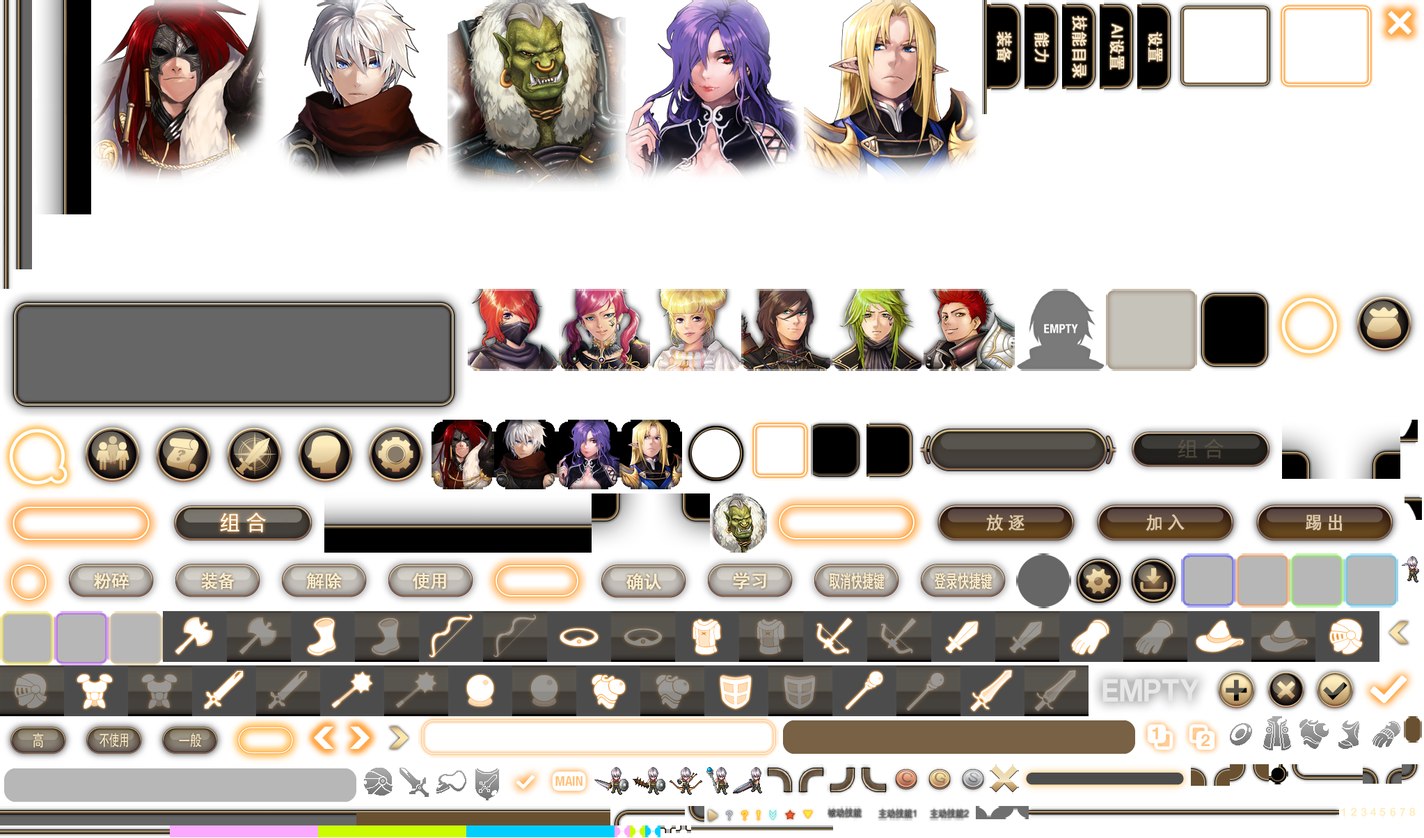
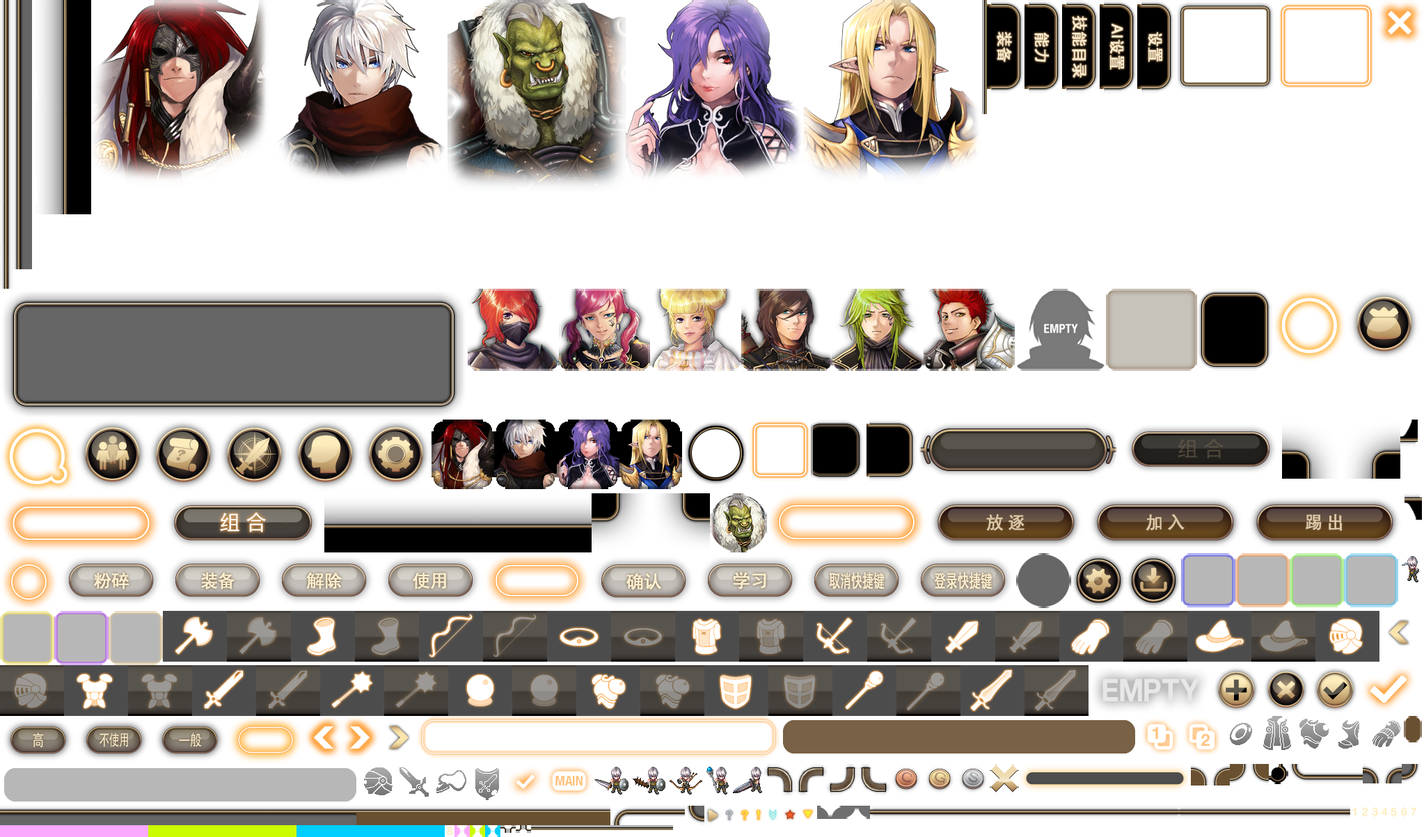
fix(ui): 技能列标题改 DOM 并统一弹层遮罩与透明度
- 技能页/AI 页/队伍技能页的主动、被动列标题不再读取 72×17 烘焙图，改 DOM 文字
- 说明层和物品详情打开时显示全屏黑色遮罩，页面文字只保留详情；GM 物品详情同样处理
- 说明面板、数量/使用弹层和原生提示横带改成半透明，不再铺纯黑
- 标题菜单确认框补黑色遮罩
- 重新生成菜单 UI 图集并更新相应断言

验证：npm run typecheck；相关用例 154 项通过；npm run build。

diff --git a/src/ui/story-ui.ts b/src/ui/story-ui.ts
@@ -107,6 +107,13 @@ export class StoryUI {
   private noticeTextSpecs:MenuTextSpec[]=[];
   /** 物品使用/丢弃弹层的文字规格；仍是弹层本地坐标，输出时统一换算。 */
   private operationTextSpecs:MenuTextSpec[]=[];
+  /** 背包说明层与 GM 物品详情打开时，页面文字让位，只留下说明自身。 */
+  private bagDetailTextSpecs:MenuTextSpec[]=[];
+  private bagDetailOpen=false;
+  private gmDetailTextSpecs:MenuTextSpec[]=[];
+  private gmDetailOpen=false;
+  /** 弹层/说明下方的黑色遮罩；画在菜单之上、说明层之下。 */
+  private popupMask?:Phaser.GameObjects.Rectangle;
   /** 技能初始化确认框的文字规格；仍是弹层本地坐标，输出时统一换算。 */
   private skillResetTextSpecs:MenuTextSpec[]=[];
   /** 登记快捷键那一屏单独一层：它盖在遮罩上，菜单本体整块藏起来。 */
@@ -220,6 +227,8 @@ export class StoryUI {
         this.renderNoticeText(writer);
       });
       this.menuText.register('bag',writer=>{
+        // 说明层打开时上方有黑色遮罩，只输出说明文字，页面文字整层让位。
+        if(this.bagDetailOpen){for(const spec of this.bagDetailTextSpecs)writer.add(spec);return;}
         this.renderTabsText(writer);
         for(const spec of this.bagTextSpecs)writer.add(spec);
         this.renderNoticeText(writer);
@@ -253,6 +262,8 @@ export class StoryUI {
       });
       // GM 调试页的文字由面板自己收集；图框、按钮和滚动仍由 Phaser 画。
       this.menuText.register('debug',writer=>{
+        // 物品详情打开时上方有黑色遮罩，只输出详情文字。
+        if(this.gmDetailOpen){for(const spec of this.gmDetailTextSpecs)writer.add(spec);return;}
         this.renderTabsText(writer);for(const spec of this.gmTextSpecs)writer.add(spec);this.renderNoticeText(writer);
       });
       // 通用原生提示盖在任何页面之上：页面文字让位，只输出这一份。
@@ -265,6 +276,8 @@ export class StoryUI {
     this.shortcutScreen.enabled=()=>this.open&&!this.app.ui.suspended&&!this.busy&&!!this.shortcutEdit;
     this.backTab.enabled=()=>this.shortcutScreen!.enabled();
     this.hudButtons=new UiSurface(scene,960,640,50);this.backdrop=scene.add.rectangle(0,0,1,1,0x000000,.65).setOrigin(0).setDepth(99).setInteractive();
+    // 说明/弹层用：压暗菜单页但不盖住说明层（300）和弹层（400）。
+    this.popupMask=scene.add.rectangle(0,0,1,1,0x000000,.5).setOrigin(0).setDepth(250).setVisible(false);
     this.surface.enabled=()=>this.open&&!this.app.ui.suspended&&!this.busy&&!this.app.ui.controlLayoutEditing&&!this.app.ui.keyBindingEditing&&!this.shortcutEdit&&!this.operation&&!this.itemNotice&&!this.allocationExit&&!this.skillReset&&!this.savePage.blocksPage&&!this.craftingPanel?.modalOpen&&!this.shopPanel?.modalOpen&&!this.partyPanel?.modalOpen&&!this.forge?.confirming;
     this.body.enabled=()=>this.surface!.enabled();this.description.enabled=()=>this.body!.enabled();
     this.modal.enabled=()=>this.open&&!this.app.ui.suspended&&!this.busy&&(!!this.operation||!!this.itemNotice||!!this.allocationExit||this.skillReset||this.savePage.modalOpen||!!this.craftingPanel?.modalOpen||!!this.shopPanel?.modalOpen||!!this.partyPanel?.modalOpen||!!this.forge?.confirming);
@@ -279,7 +292,7 @@ export class StoryUI {
     this.unsubscribeFullscreen=onFullscreenChange(()=>{if(this.open&&this.page==='settings')this.render();});
     scene.input.on('pointermove',this.moveDrag,this);scene.input.on('pointerup',this.endDrag,this);scene.input.on('pointerupoutside',this.cancelDrag,this);
     scene.game.events.on(UI_EVENTS.minimapLayout,this.onMinimap,this);scene.game.events.on(UI_EVENTS.cancelInput,this.cancelDrag,this);
-    scene.events.once('shutdown',()=>{this.unregisterKeyboard?.();this.unregisterKeyboard=undefined;this.unsubscribe?.();this.unsubscribeFullscreen?.();this.discardAllocation();this.menuText?.destroy();this.menuText=undefined;this.shortcutPrompt?.remove();this.shortcutPrompt=undefined;scene.scale.off('resize',this.resize,this);scene.game.events.off(UI_EVENTS.minimapLayout,this.onMinimap,this);scene.game.events.off(UI_EVENTS.cancelInput,this.cancelDrag,this);this.cancelOperation();this.savePage.destroy();this.surface!.root.remove(this.body!.root);this.surface?.destroy();this.body?.destroy();this.modal?.destroy();this.hudButtons?.destroy();this.description?.destroy();this.shortcutScreen?.destroy();this.backTab?.destroy();this.backdrop?.destroy();this.controlEditor?.destroy();this.controlEditor=undefined;this.keyBindingEditor?.destroy();this.keyBindingEditor=undefined;});
+    scene.events.once('shutdown',()=>{this.unregisterKeyboard?.();this.unregisterKeyboard=undefined;this.unsubscribe?.();this.unsubscribeFullscreen?.();this.discardAllocation();this.menuText?.destroy();this.menuText=undefined;this.shortcutPrompt?.remove();this.shortcutPrompt=undefined;scene.scale.off('resize',this.resize,this);scene.game.events.off(UI_EVENTS.minimapLayout,this.onMinimap,this);scene.game.events.off(UI_EVENTS.cancelInput,this.cancelDrag,this);this.cancelOperation();this.savePage.destroy();this.surface!.root.remove(this.body!.root);this.surface?.destroy();this.body?.destroy();this.modal?.destroy();this.hudButtons?.destroy();this.description?.destroy();this.shortcutScreen?.destroy();this.backTab?.destroy();this.backdrop?.destroy();this.popupMask?.destroy();this.popupMask=undefined;this.controlEditor?.destroy();this.controlEditor=undefined;this.keyBindingEditor?.destroy();this.keyBindingEditor=undefined;});
     this.sync();
   }
   bind(session:Session,world:WorldIndex,content:StoryInterface):void{
@@ -325,6 +338,7 @@ export class StoryUI {
     this.shortcutScreen?.visible(this.open&&!this.app.ui.suspended&&!!this.shortcutEdit);this.backTab?.visible(this.open&&!this.app.ui.suspended&&!!this.shortcutEdit);
     this.shortcutPrompt?.setVisible(this.open&&!this.app.ui.suspended&&!!this.shortcutEdit);
     this.backdrop?.setVisible(this.open&&!this.app.ui.suspended);
+    this.popupMask?.setVisible(menu&&(modal||this.bagDetailOpen||this.gmDetailOpen));
     this.controlEditor?.visible(this.open&&this.app.ui.controlLayoutEditing&&!this.app.ui.suspended);
     this.keyBindingEditor?.visible(this.open&&this.app.ui.keyBindingEditing&&!this.app.ui.suspended);this.layout();
   }
@@ -474,6 +488,7 @@ export class StoryUI {
     }
     this.body?.scrolls.forEach(scroll=>scroll.layout());this.description?.scrolls.forEach(scroll=>scroll.layout());this.modal?.scrolls.forEach(scroll=>scroll.layout());if(this.hudButtons&&this.scene){const bounds=this.scene.game.canvas.getBoundingClientRect(),safe=readSafeArea(),unit=this.scene.scale.width/Math.max(1,bounds.width),scale=uiUnitScale(this.scene.scale.width,this.scene.scale.height);this.hudButtons.root.setScale(scale).setPosition((safe.left+12)*unit,(safe.top+12)*unit);this.hudButtons.root.list.forEach((button,index)=>(button as Phaser.GameObjects.Container).setPosition(0,this.minimapHeight+12+index*(HUD_SIDE_BUTTON_SIZE+8)));}
     this.backdrop?.setSize(this.scene!.scale.width,this.scene!.scale.height);
+    this.popupMask?.setSize(this.scene!.scale.width,this.scene!.scale.height);
     // 画布缩放变化后，DOM 文字的 CSS 坐标和字号要跟着重算。
     this.menuText?.refresh();
     if(this.shortcutEdit)this.placeShortcutPrompt();
@@ -690,7 +705,7 @@ export class StoryUI {
         });
         this.gmPanelOwner=gm;
       }
-      this.gmTextSpecs=[];
+      this.gmTextSpecs=[];this.gmDetailTextSpecs=[];this.gmDetailOpen=false;
       this.gmPanel?.render(this.body!,{add:spec=>this.gmTextSpecs.push(spec)});
     }
     if(this.page==='save'||this.page==='load')this.renderSavePage();
@@ -1121,7 +1136,12 @@ export class StoryUI {
     // 可视区收进左框内沿：原版滚动区是 (21,18,374,394)，内容组再左内缩 10。这里把滚动原点
     // 移到 (116,24)（相对原可视区右移 10、下移 6），再用 16 的裁剪外扩；下沿正好停在底框上沿，
     // 内容不会盖住列标题和底框。
-    const tree=this.scroll('directory',116,24,364,367,this.body!,16);panels.skillColumns.forEach((column,index)=>v.image(column.image,1+index*91,0,72,17,tree.content));
+    const tree=this.scroll('directory',116,24,364,367,this.body!,16);
+    // 列标题原来是 72×17 的烘焙文字图，改成 DOM 后不再发虚。
+    panels.skillColumns.forEach((column,index)=>this.skillTextSpecs.push({
+      key:`skill-column-${index}`,text:column.label,x:116+1+index*91+36,y:24+8.5,
+      style:{size:14,color:'#9a9a9a',anchorX:.5,anchorY:.5},scroll:'directory',clip:{top:24,bottom:391}
+    }));
     character.skills.forEach((id,index)=>{
       const entry=this.app.battleCatalog.skills[id],position=panels.skillPositions[index]!,level=draft.levels[id]??0;
       const button=v.button('',position.column*91,20+position.row*89,75,75,()=>{this.skill=id;this.scrollOffsets.delete('skills:description');this.render();},{image:entry.icon,parent:tree.content,guard:tree.guard}).setData('label',entry.name);
@@ -1147,7 +1167,10 @@ export class StoryUI {
     const v=this.body!,panels=this.app.menuPanels,party=this.session!.party!;
     const list=this.scroll('ai',116,24,364,367,this.body!,16);
     // AI 页只有两列主动技能；第三张是目录页的「被动技能」标题，原版这里只画前两个。
-    panels.skillColumns.slice(0,2).forEach((column,index)=>v.image(column.image,1+index*182,0,72,17,list.content));
+    panels.skillColumns.slice(0,2).forEach((column,index)=>this.skillTextSpecs.push({
+      key:`skill-ai-column-${index}`,text:column.label,x:116+1+index*182+36,y:24+8.5,
+      style:{size:14,color:'#9a9a9a',anchorX:.5,anchorY:.5},scroll:'ai',clip:{top:24,bottom:391}
+    }));
     // 两列之间与右列外侧的压暗分隔条。颜色与原版压暗带相同（RGB 111,111,111），但**不是**
     // `phaser/round-band.ts` 那条：这里是没有圆角件的 37 宽直条，不透明度也直接按 0–255 给
     // （30/255），而 `drawRoundBand` 的强度是 0–100 且带四角图。别把它们当成同一元件合并。
@@ -1350,7 +1373,7 @@ export class StoryUI {
     if(this.shortcutEdit)this.closeShortcutScreen();
   }
   private renderBag():void{
-    this.bagTextSpecs=[];
+    this.bagTextSpecs=[];this.bagDetailTextSpecs=[];this.bagDetailOpen=false;
     const v=this.body!,bag=this.session!.bag,panels=this.app.menuPanels,member=this.member()!,equipment=bag.equipmentFor(this.selectedMemberId),art=this.memberArt();
     // 两栏背景照原版：`UIEquip_DrawEquipBackground @0x14a7cc` 给左栏画图框加四块黑色 60% 的区域
     // （`GRPX_FillRectAlpha(..., 0xff000000, 0x3c)`），中间 (129,110,157,157) 那块留空放人物预览；
@@ -1367,6 +1390,7 @@ export class StoryUI {
     this.drawPartyColumn(v);
     const showingResult=itemResultDetails(this.itemResult,bag.catalog,id=>id,id=>id).length>0,
       describing=!showingResult&&!!this.selectedItem&&!!bag.get(this.selectedItem);
+    this.bagDetailOpen=describing||showingResult;
     // 说明面板盖住点选来源的对面那一栏：停在左栏（点背包物品）时右栏照常画背包网格，
     // 停在右栏（点身上装备）时左栏的人物与装备槽也必须照常画——否则那一块会整片空掉。
     // 只有面板盖住左栏时才省掉这一支——省掉的是被盖住的那一块，**不是把选中状态清掉**：
@@ -1477,7 +1501,7 @@ export class StoryUI {
     // 说明正文走 DOM：断行和高度仍在布局阶段算完，滚动时由文字层扣掉滚动偏移。
     const scrollX=left+panel.scroll.x,scrollY=top+panel.scroll.y,
       clip={top:scrollY,bottom:scrollY+actionLayout.scrollHeight},
-      writer={add:(spec:MenuTextSpec)=>this.bagTextSpecs.push(spec)};
+      writer={add:(spec:MenuTextSpec)=>this.bagDetailTextSpecs.push(spec)};
     drawDescriptionTitle(body.title,left,top,panel.width,body.color,{writer,keyPrefix:'item-title'});
     let y=drawDescriptionRows(v,body.rows,panel.scroll.width,
       {writer,keyPrefix:'item-row',x:scrollX,y:scrollY,scroll:'item',clip});
@@ -1490,7 +1514,7 @@ export class StoryUI {
         const button=actionLayout.buttons[index]!;
         v.button('',left+button.x,top+button.y,button.width,button.height,action.run,
           {fontSize:button.fontSize,disabled:action.disabled}).setData('label',action.label);
-        this.bagTextSpecs.push({key:`item-action-${index}`,text:action.label,
+        this.bagDetailTextSpecs.push({key:`item-action-${index}`,text:action.label,
           x:left+button.x+button.width/2,y:top+button.y+button.height/2,
           style:{size:button.fontSize,anchorX:.5,anchorY:.5,width:button.width-12,align:'center',wrap:'word'}});
       });
@@ -1503,6 +1527,7 @@ export class StoryUI {
   private renderGmItemDetail(itemId:string,close:()=>void):void{
     const v=this.description!,catalog=this.session!.bag.catalog,item=catalog.items[itemId];
     if(!item)return;
+    this.gmDetailOpen=true;
     // 未持有的物品没有掷出的实例数值；用目录默认值与最大孔数预览，避免详情里全是 0。
     const defaults=this.app.characterStats.equipment[itemId];
     const entry:ItemInstance={id:'gm-preview',item:itemId,quantity:1,enhancement:0,gems:[],
@@ -1524,7 +1549,7 @@ export class StoryUI {
     // 说明层坐标与内容块一致；调试页的文字层按内容块坐标输出。
     const scrollX=left+panel.scroll.x,scrollY=top+panel.scroll.y,
       clip={top:scrollY,bottom:scrollY+panel.scroll.height},
-      writer={add:(spec:MenuTextSpec)=>this.gmTextSpecs.push(spec)};
+      writer={add:(spec:MenuTextSpec)=>this.gmDetailTextSpecs.push(spec)};
     drawDescriptionTitle(body.title,left,top,panel.width,body.color,{writer,keyPrefix:'gm-item-title'});
     const height=drawDescriptionRows(v,body.rows,panel.scroll.width,
       {writer,keyPrefix:'gm-item-row',x:scrollX,y:scrollY,scroll:'item',clip});
@@ -1721,7 +1746,7 @@ export class StoryUI {
       id=>this.app.battleCatalog.skills[id]?.name??id,id=>this.app.storyClasses.classes.find(c=>c.id===id)?.name??id)
       .forEach((line,index)=>{
         const layout=this.descriptionLayout(v,[{text:line,color:GOLD}],panel.scroll.width,22);
-        this.pushDescriptionText(this.bagTextSpecs,`item-result-${index}`,layout,scrollX,scrollY,panel.scroll.width,22,
+        this.pushDescriptionText(this.bagDetailTextSpecs,`item-result-${index}`,layout,scrollX,scrollY,panel.scroll.width,22,
           'item',clip,y);
         y+=layout.height+5+13;
       });

diff --git a/src/scenes/menu-scene.ts b/src/scenes/menu-scene.ts
@@ -59,6 +59,8 @@ export class MenuScene extends Phaser.Scene {
   /** 确认框画在它上面；底下的页面在确认期间不接受输入。 */
   private modal?:UiSurface;
   private backdrop?:Phaser.GameObjects.Image;
+  /** 确认框后面的黑色遮罩：弹层本身保持半透明。 */
+  private popupMask?:Phaser.GameObjects.Rectangle;
   private page:'home'|'slots'|'settings'|'cloud'='home';
   /** 存档槽立绘的租约：每次进存档页按槽里的路径取，离开页面或关场景时释放。 */
   private slotPortraits?:AssetLease;
@@ -98,7 +100,7 @@ export class MenuScene extends Phaser.Scene {
   create(options:{page?:'home'|'slots'}={}):void {
     this.page='home';this.app.ui.setMode('menu');this.app.ui.loading('正在准备主菜单…');
     const controller=new AbortController();
-    this.events.once('shutdown',()=>{this.unregisterInput?.();this.unregisterInput=undefined;controller.abort();this.cancelCloudRequest();this.settleConfirm(false,false);this.slotRequest?.abort();this.prompt?.close();this.passwordPrompt?.close();this.credentials?.destroy();this.credentials=undefined;this.clearModalLabels();this.menuText?.destroy();this.menuText=undefined;this.domSpecs=[];this.slotsScroll=undefined;this.settingsList=undefined;this.cloudScroll=undefined;this.surface?.destroy();this.surface=undefined;this.modal?.destroy();this.modal=undefined;this.slotPortraits?.release();this.slotPortraits=undefined;this.events.off(Phaser.Scenes.Events.RESUME,this.renderCloudOnResume);this.events.off(Phaser.Scenes.Events.PAUSE,this.hideCredentials);this.scale.off('resize',this.layout,this);});
+    this.events.once('shutdown',()=>{this.unregisterInput?.();this.unregisterInput=undefined;controller.abort();this.cancelCloudRequest();this.settleConfirm(false,false);this.slotRequest?.abort();this.prompt?.close();this.passwordPrompt?.close();this.credentials?.destroy();this.credentials=undefined;this.clearModalLabels();this.menuText?.destroy();this.menuText=undefined;this.domSpecs=[];this.slotsScroll=undefined;this.settingsList=undefined;this.cloudScroll=undefined;this.surface?.destroy();this.surface=undefined;this.modal?.destroy();this.modal=undefined;this.popupMask?.destroy();this.popupMask=undefined;this.slotPortraits?.release();this.slotPortraits=undefined;this.events.off(Phaser.Scenes.Events.RESUME,this.renderCloudOnResume);this.events.off(Phaser.Scenes.Events.PAUSE,this.hideCredentials);this.scale.off('resize',this.layout,this);});
     // 标题页整屏独占键盘；原始事件由正式界面场景那一处桥接进 router。
     this.unregisterInput?.();this.unregisterInput=this.app.inputRouter.register('menu',this.routeKey,{exclusive:()=>true});
     this.events.on(Phaser.Scenes.Events.RESUME,this.renderCloudOnResume);
@@ -112,6 +114,7 @@ export class MenuScene extends Phaser.Scene {
       if(controller.signal.aborted){lease.release();return;}
       this.events.once('shutdown',()=>lease.release());
       this.backdrop=this.add.image(0,0,uiTexture(art('background'))).setOrigin(.5);
+      this.popupMask=this.add.rectangle(0,0,1,1,0x000000,.5).setOrigin(0).setDepth(150).setVisible(false);
       this.surface=new UiSurface(this,1200,640);this.modal=new UiSurface(this,1024,640,200);this.prompt=new TextPrompt();this.passwordPrompt=new PasswordChangePrompt();
       const domUi=this.domUi;
       if(domUi){
@@ -352,6 +355,7 @@ export class MenuScene extends Phaser.Scene {
     // 加载页会盖住画布，但 DOM 在画布之上；加载或挂起时页面文字必须让位。
     const textVisible=this.confirmAction===undefined&&this.app.ui.ready&&!this.app.ui.suspended;
     this.menuText?.setVisible(textVisible);
+    this.popupMask?.setVisible(!textVisible&&this.confirmAction!==undefined&&this.app.ui.ready&&!this.app.ui.suspended);
     if(!textVisible)for(const label of this.modalLabels)label.setVisible(false);
     this.clearModalLabels();
     if(this.confirmAction){
@@ -790,6 +794,7 @@ export class MenuScene extends Phaser.Scene {
   }
   private layout():void {
     if(this.backdrop){const source=this.backdrop.texture.getSourceImage(),factor=Math.max(this.scale.width/source.width,this.scale.height/source.height);this.backdrop.setPosition(this.scale.width/2,this.scale.height/2).setScale(factor);}
+    this.popupMask?.setSize(this.scale.width,this.scale.height);
     this.surface?.layout();
     if(this.surface&&this.modal&&this.confirmAction!==undefined)centerModal(this.modal,this.surface,1024,640);
     this.syncCredentials();

diff --git a/src/ui/phaser/popup-panel.ts b/src/ui/phaser/popup-panel.ts
@@ -6,7 +6,8 @@ import { POPUP_FRAME } from '../shop-layout.ts';
  *
  * 原版这两个框的画法一模一样（`UIInputItemCount_Draw @0x14f4c8` 与
  * `UIPopupMsg_DrawDisplayTypeRectBackground @0x15e994`）：先用图组 19 的边框家族画四角与四条边，
- * 再铺一块内缩 35 的不透明黑底。矩形与落点见 `shop-layout.ts` 的 `POPUP_FRAME`。
+ * 再铺一块内缩 35 的半透明黑底。压暗页面由外层的黑色遮罩负责，弹层本身不再铺死黑。
+ * 矩形与落点见 `shop-layout.ts` 的 `POPUP_FRAME`。
  *
  * 坐标相对框的左上角，所以翅角与四条边都会画到框外，调用方给框定位时要按 (0,0) 对齐。
  */
@@ -21,5 +22,5 @@ export function drawPopupPanel(v: UiSurface, assets: Record<string, string>, wid
   v.image(assets['popup-edge-horizontal'], horizontal.inset, height + horizontal.bottom - horizontal.height, span, horizontal.height).setFlipY(true);
   v.image(assets['popup-edge-vertical'], vertical.left, vertical.top, vertical.width, reach);
   v.image(assets['popup-edge-vertical'], width + vertical.right - vertical.width, vertical.top, vertical.width, reach).setFlipX(true);
-  v.rect(inner, inner, span, reach, 0x000000, 1);
+  v.rect(inner, inner, span, reach, 0x000000, .35);
 }

diff --git a/tests/shop-panel.test.ts b/tests/shop-panel.test.ts
@@ -173,11 +173,11 @@ test('shop layout keeps the native panel geometry',()=>{
   assert.equal(descriptionPanel(462).scroll.width,378,'变宽时滚动区右侧留边不变');
   assert.equal(descriptionPanel(462).menu.width,377+20,'变宽时菜单行右侧留边不变');
   assert.equal(DESCRIPTION_PANEL.height,431);
-  // 面板自带底色：内缩 10 取原版（UIDesc_Draw 的 GRPX_FillRectAlpha 参数 0x3c=60），
-  // 本作把不透明度提到 85%，让面板压得住底下那一栏。
+  // 面板自带半透明底色：内缩 10 取原版（UIDesc_Draw 的 GRPX_FillRectAlpha 参数 0x3c=60），
+  // 页面的压暗交给外层黑色遮罩，面板本身不再铺接近纯黑。
   assert.equal(DESCRIPTION_PANEL.inset,10);
   assert.equal(DESCRIPTION_PANEL.background,0x000000);
-  assert.equal(DESCRIPTION_PANEL.backgroundAlpha,.85);
+  assert.equal(DESCRIPTION_PANEL.backgroundAlpha,.35);
   // 物品名在面板顶上，不在滚动区里：落点 (20,22)、右边留 82 给关闭按钮。
   assert.deepEqual(DESCRIPTION_PANEL.title,{x:20,y:22,right:82,size:24});
   assert.deepEqual(DESCRIPTION_PANEL.scroll,{x:20,y:60,width:358,height:258});

diff --git a/src/ui/bag-layout.ts b/src/ui/bag-layout.ts
@@ -76,11 +76,11 @@ export const DESCRIPTION_PANEL = {
   y: 0, width: 442, height: 431,
   /** 442 是这套子件的设计宽度；实际面板按它盖住的那一栏取宽，见 `descriptionPanel`。 */
   /**
-   * 黑色底色的内缩量取原版（`GRPX_FillRectAlpha(x+10,y+10,w−20,h−20,0xff000000,60)`），
-   * 不透明度按观感从原版的 60% 提到 85%：面板要压得住底下那一栏的格子与图标，
-   * 同时又看得出它是盖上去的一层，不是把那一栏整个换掉。
+   * 黑色底色的内缩量取原版（`GRPX_FillRectAlpha(x+10,y+10,w−20,h−20,0xff000000,60)`）。
+   * 面板本身保持半透明，压暗交给它下面的全屏黑色遮罩；这样能看到底下的界面，
+   * 又不会把面板画成一块纯黑。
    */
-  inset: 10, background: 0x000000, backgroundAlpha: .85,
+  inset: 10, background: 0x000000, backgroundAlpha: .35,
   /** 物品名：落点与占宽来自 `UIDesc_Draw`，`right` 是右边留给关闭按钮的那段。 */
   title: { x: 20, y: 22, right: 82, size: 24 },
   scroll: { x: 20, y: 60, width: 358, height: 258 },

diff --git a/src/ui/phaser/party-panel.ts b/src/ui/phaser/party-panel.ts
@@ -220,7 +220,9 @@ export class PartyPanel {
     const companion=id==='player'?undefined:(member as CompanionMember).snapshot();
     this.skillsScroll=this.scrollArea(v,'party-skills',503,18,374,342);const scroll=this.skillsScroll;
     scroll.onScroll=()=>this.refreshText();
-    panels.skillColumns.forEach((column,index)=>v.image(column.image,index*91,0,72,17,scroll.content));
+    // 列标题改成 DOM 文字，不再从 72×17 的烘焙图读取。
+    panels.skillColumns.forEach((column,index)=>this.scrolledText(`skill-column-${index}`,column.label,
+      503+index*91+36,18+8.5,14,'#9a9a9a','party-skills',{top:18,bottom:360},{anchorX:.5,anchorY:.5}));
     character.skills.forEach((skillId,index)=>{
       const skill=this.app.battleCatalog.skills[skillId],position=panels.skillPositions[index],level=loadout.levels[skillId]??0,available=!companion||!!companion.skillCaps[skillId];
       const button=v.button('',position.column*91,20+position.row*89,75,75,()=>{this.modal={kind:'skill',id,skill:skillId};this.changed();},

diff --git a/tests/story-menu-interactions.test.ts b/tests/story-menu-interactions.test.ts
@@ -445,9 +445,9 @@ test('skill settings page drops the initial-point label and keeps the reset butt
 test('AI settings shows two columns and clears the description for unlearned skills',t=>{
   const f=fixture();t.after(f.cleanup);
   f.menu.show('skills');f.scene.click(f.scene.button('AI 设置'));
-  const headers=panels.skillColumns.map(column=>`interface:${column.image}`);
-  assert.deepEqual(headers.map(key=>f.scene.nodes.filter(node=>node.shown&&node.texture.key===key).length),[1,1,0],
-    'AI 页只画两个主动技能列标题');
+  const headers=panels.skillColumns.map(column=>column.label);
+  assert.deepEqual(visibleDomLabels(f).filter(label=>headers.includes(label.text)).map(label=>label.text),[headers[0],headers[1]],
+    'AI 页只显示两个主动技能列标题');
   const character=battle.classes.find(value=>value.id===f.hero.classId)!;
   const draft=f.session.skills.draft(battle,f.hero.classId);
   const unlearned=character.skills.slice(0,9).find(id=>!(draft.levels[id]>0))!;

diff --git a/src/ui/phaser/native-message.ts b/src/ui/phaser/native-message.ts
@@ -23,7 +23,8 @@ export function drawNativeMessage(v:UiSurface,assets:Record<string,string>,messa
   text.setAlign('center');
   const bandHeight=text.height+150,top=(height-bandHeight)/2;
   text.destroy();
-  v.rect(screen.left,top,screen.width,bandHeight,0x000000,1);
+  // 横带保持半透明，页面压暗交给菜单的全局黑色遮罩。
+  v.rect(screen.left,top,screen.width,bandHeight,0x000000,.55);
   // 花纹素材是 240 宽；超出屏幕的部分由画布裁掉。
   for(let x=screen.left;x<screen.left+screen.width;x+=240){
     v.image(assets['message-edge'],x,top-29,240,38);

diff --git a/src/application/menu-images.ts b/src/application/menu-images.ts
@@ -28,7 +28,6 @@ export function gameMenuImageGroups(panels: MenuPanels, items: ItemCatalog, batt
     ...COMMON_BUTTON_IMAGES,
     ...Object.values(panels.assets),
     ...panels.equipmentSlots.map(slot => slot.emptyIcon),
-    ...panels.skillColumns.map(column => column.image),
     ...Object.values(panels.classes).map(character => character.preview),
     ...Object.values(panels.character.portraits).flatMap(character => [character.image, character.partyIcon]),
     ...Object.values(story.assets), ...Object.values(shops.assets)
